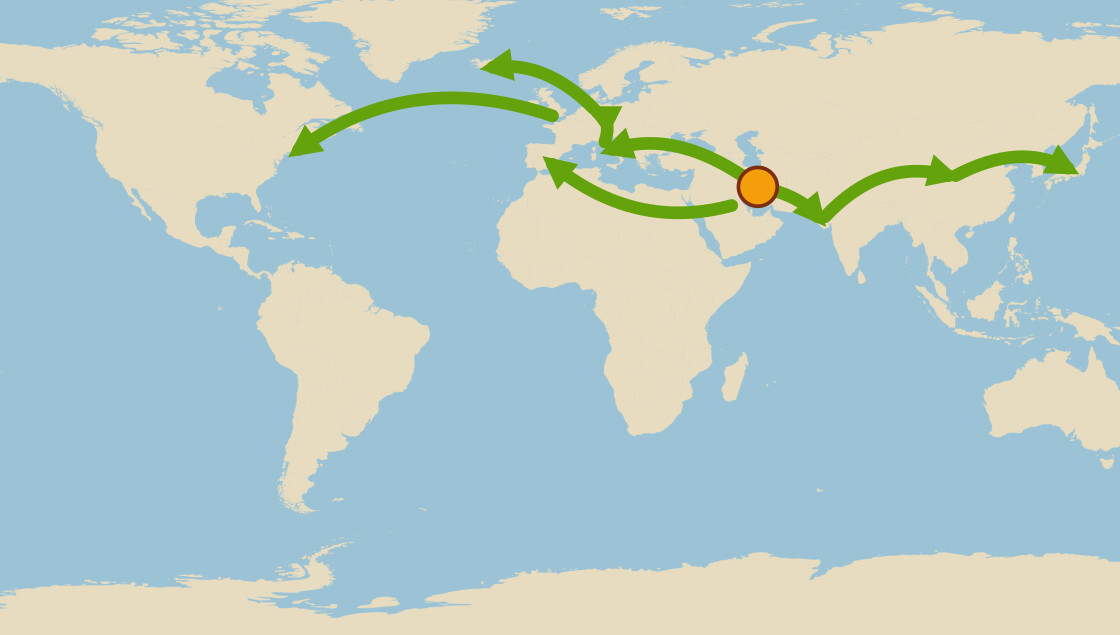
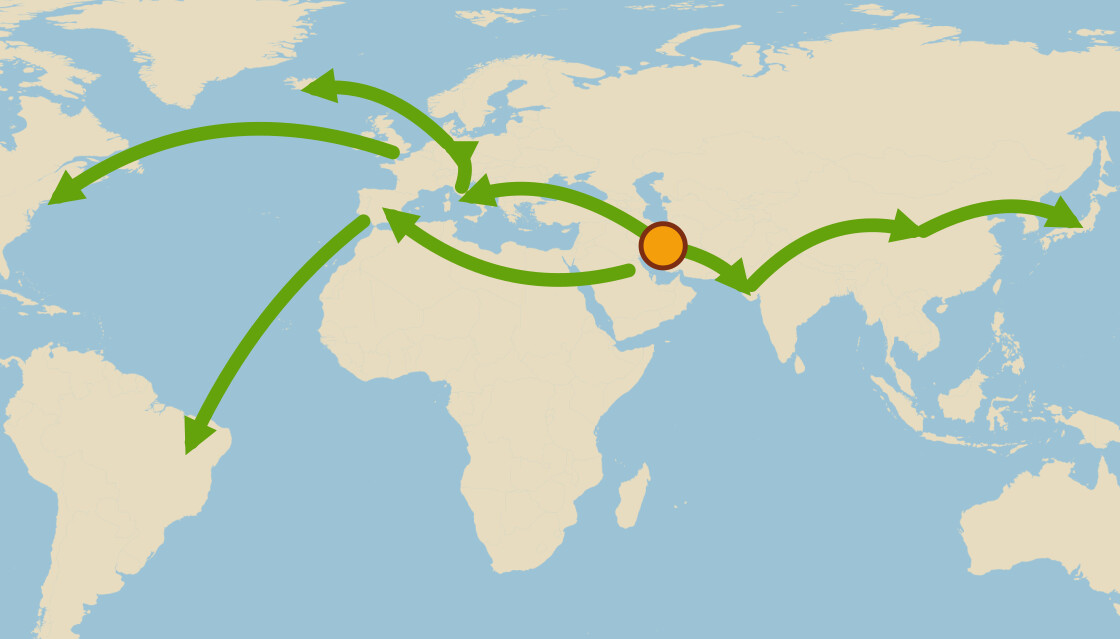
fix(backgammon): 地図にポルトガル → ブラジルの矢印を足し、矢印のある範囲に拡大する（TODO-024）
Claude-Session: https://claude.ai/code/session_011sxjiiz6sNYDFKPdScEQs6

diff --git a/archives/agents/TODO-024/spread-sources.md b/archives/agents/TODO-024/spread-sources.md
@@ -9,6 +9,7 @@
 | アラブ世界 → スペイン | "tables games from their arrival in Spain or Italy from the Arabic world around the turn of the first millennium" |
 | ヨーロッパの中（ドイツ → アイスランド） | "Tables games were played in Germany in the 12th century, and had reached Iceland by the 13th century" |
 | イングランド → アメリカ | backgammon は 17 世紀のイングランドが最古の記録で、"By the 19th century ... spread abroad to Europe and America" |
+| ポルトガル → ブラジル | ポルトガル語版 Wikipedia「Gamão」の「No Brasil」の節: 植民地時代のブラジルで広く遊ばれていた（出典は『História da vida privada no Brasil』） |
 | 中東 → インド西部 → 中国 → 日本 | "Shuanglu came from western India to China during the Wei dynasty"、"In Japan, ban-sugoroku is thought to have been brought from China in the 6th century" |
 
 推測で描いたところ: 中東からインド西部への矢印（nard がペルシャとインドの間で語られる伝説から）と、
